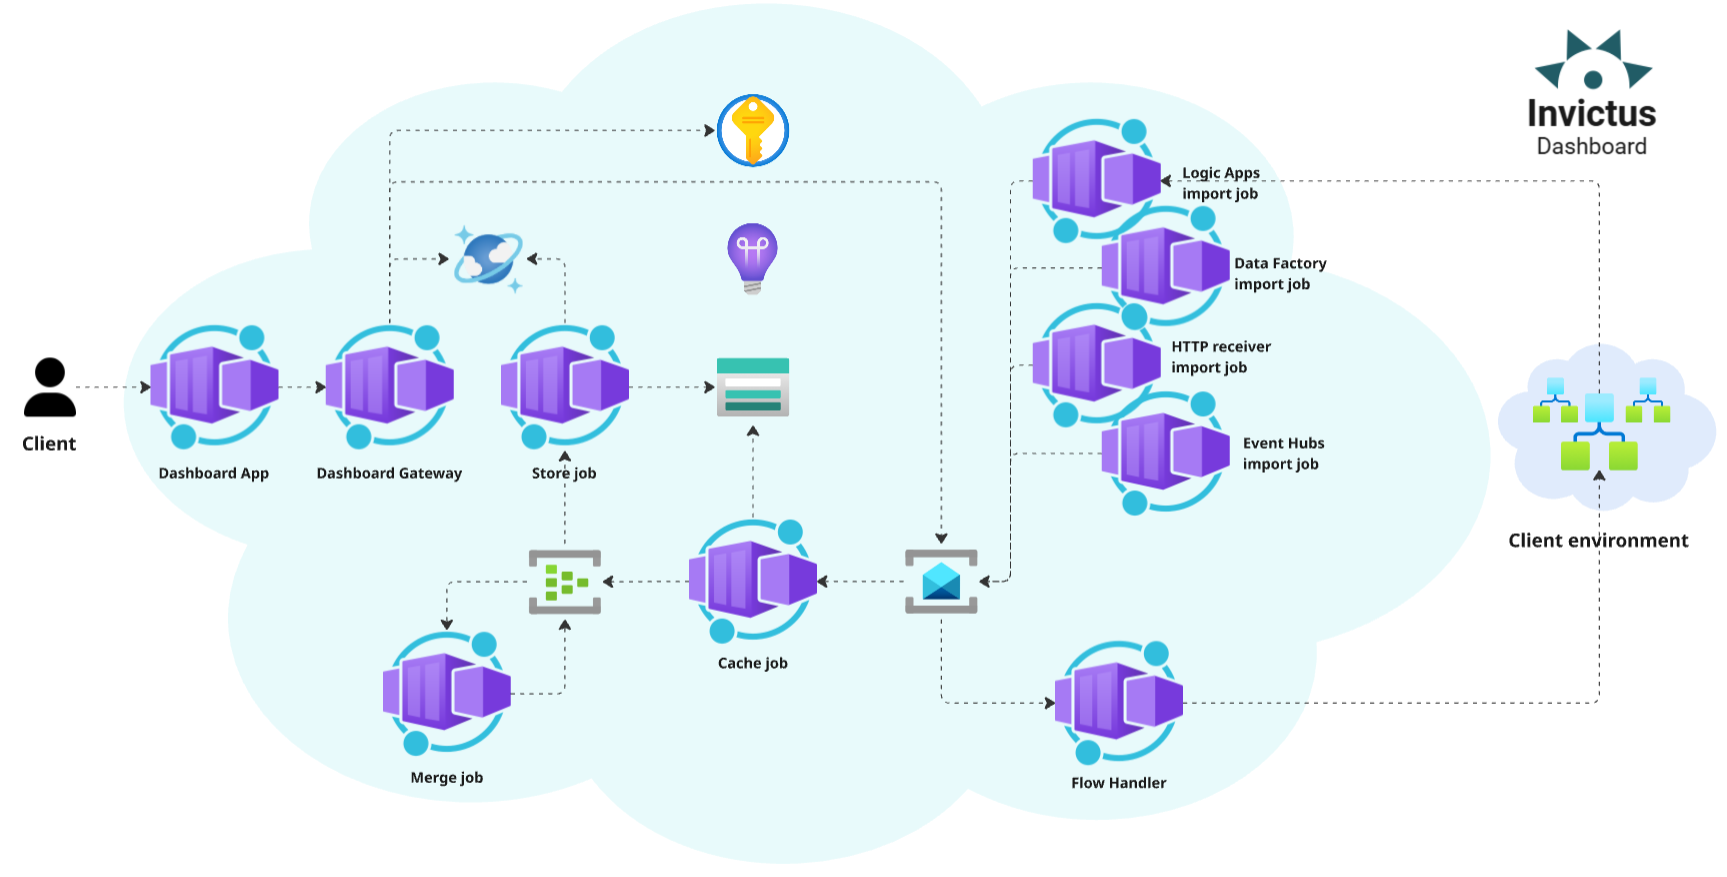
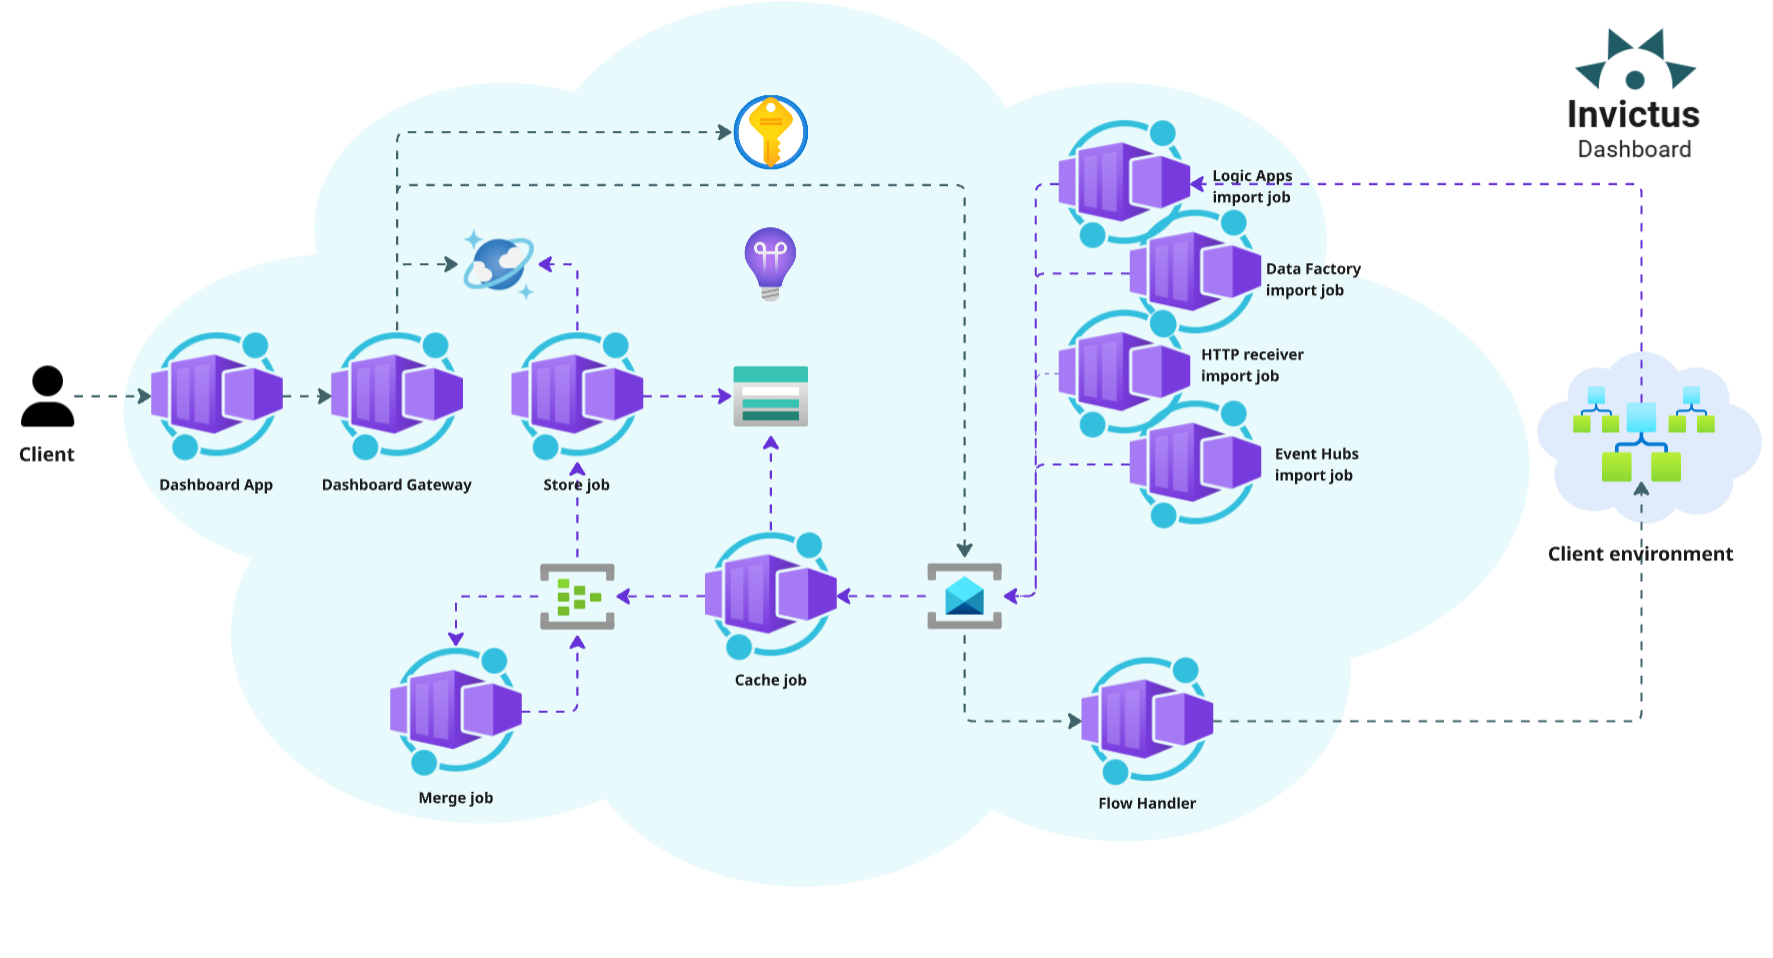
chore(intro): introduce new invictus introduction

diff --git a/src/css/custom.css b/src/css/custom.css
@@ -202,3 +202,23 @@ html[data-theme='dark'] .vnet table, html[data-theme='dark'] .vnet td {
 .toggle-checkbox:checked + .toggle-slider::before {
   transform: translateX(24px);
 }
+
+[data-theme="light"] img[src$="#dark-mode-only"],
+[data-theme="dark"] img[src$="#light-mode-only"] {
+  display: none;
+}
+
+.center {
+  display: block;
+  margin-left: auto;
+  margin-right: auto;
+  width: 30%;
+}
+
+.flow-trace-text {
+  color: #734dc4;
+}
+
+.flow-text {
+  color: #406369;
+}

diff --git a/versioned_docs/version-v6.0.0/architecture-diagram.md b/versioned_docs/version-v6.0.0/architecture-diagram.md
@@ -3,57 +3,40 @@ sidebar_label: Architecture
 sidebar_position: 2
 ---
 
-# Invictus for Azure Architecture Diagrams
+# Invictus for Azure architecture
+The following sections describe the general overview of what's 'under the hood' of an Invictus installation. Invictus by itself can be split up into two major parts: the **Dashboard** and the **Framework**.
 
-## Invictus Dashboard Architecture
+:::note[used terms]
+* *Flow:* Invictus uses 'flow' throughout to identify a logical 'message chain'. Flows are created by business users in the **Dashboard** so that all diagnostic traces can be aggregated and linked to the same incoming message. 
+* *Flow trace:* Invictus uses 'flow trace' throughout to identify a diagnostic trace that can be linked to a user-defined 'flow'. These can come directly from Azure Logic Apps diagnostic traces, or other places, like Azure Data Factory pipeline triggers. We even provide a **HTTP import job** to POST custom flow traces.
+:::
 
+<br/>
 ![Architecture diagram](/images/InvictusV2Diagram_Dashboard.png "Invictus Dashboard architecture diagram")
+<br/>
 
-### Dashboard Components
+The Invictus **Dashboard** provides a business user-friendly UI to interact with client set up integrations (usually Azure Logic Apps), instead of directly manipulating those integrations via Azure. It does this by showing integrations as 'flows', backed with diagnostic information (here called 'flow traces') loaded via an internal job-chain. The following containerized components are deployed upon installing the Dashboard, based on their purpose:
 
-- **Frontend:** Consists of the web application which is used to monitor all flows in the system.
-- **Dashboard Gateway:** Serves as the backend for the web application, handles all interactions with the database and other dependencies.
-- **Flow Handler:** Handles interactions with the Azure management api for the flow actions (Ignore, Resubmit, Resume), flow alerts and message content view features.
-- **Import Functions:** Consist of ImportJob, CacheImportJob and StoreImportJob. The ImportJob functions are used to listen on EventHub for all Azure Logic App executions, all data is then merged and finally pushed to the Database.
-- **CosmosDB:** Stores all the data necessary for the frontend to function such as users, folders, settings. Flow data and workflow events are also saved to the CosmosDB by the *DatabaseManager* function.
-- **Event Hub:** Logic App diagnostic messages are sent to event hub where they are picked up and processed by the Invictus import functions.
+* <u class="flow-text">**Flows**</u>
+  * <u>**Dashboard App:**</u> the business user interacts with the **Dashboard** via a deployed web application which is used to monitor all 'flows'.
+  * <u>**Dashboard Gateway:**</u> serves as the backend API for the **Dashboard App**. It shows the stored 'flows' (*Cosmos DB for MongoDB*) and triggers 'flow' operations (*Service Bus*).  
+  * <u>**Flow Handler:**</u> based on the required 'flow' action triggered by the business user (*Ignore*, *Resubmit*, *Resume*) in the **Dashboard App**, it interacts with the deployed Azure Logic Apps on the client environment (See [import flow traces via Logic App workflows](./dashboard/flows/04_import-flow-traces/import-flows-via-la.md) for more info).
+* <u class="flow-trace-text">**Flow traces**</u>
+  * <u>**[type] import job:**</u> the Invictus installation provides several 'import jobs' which are interaction endpoints to push 'flow traces' into the **Dashboard**. These can come from various sources (Logic Apps, Data Factory, Event Hubs...). Once received, they push a canonical message into the system (*Service Bus*).
+  * <u>**Cache job:**</u> listens for new canonical messages (*Service Bus*) and caches them as batches (*Blob Storage*).
+  * <u>**Merge job:**</u> listens for new batches (*Event Hubs*) and already upserts the system (*Cosmos DB for MongoDB*) with 'message content view' information (input/output of Azure Logic Apps, see [import flow traces via Logic App workflows](./dashboard/flows/04_import-flow-traces/import-flows-via-la.md) for more info).
+  * <u>**Store job:**</u> listens for new batches (*Event Hubs*), loads referenced canonical message (*Blob Storage*), and combines that information to store 'flow trace' models (*Cosmos DB for MongoDB*) which gets available via the **Dashboard App** to the business user.
 
-## Invictus Framework Architecture
-
+<br/>
 ![Architecture diagram](/images/InvictusV2Diagram_Framework.png "Invictus Framework architecture diagram")
+<br/>
 
-### Framework Components
+Within the client integrations (here always Azure Logic Apps), several common integration patterns are not built into Azure Logic App workflows by default. The Invictus **Framework** provides several of these patterns as HTTP available endpoints that can be interacted with within your workflows.
 
-Various useful Functions which can be used within your Azure Logic App integration processes. For more information see the [Invictus Framework documentation](./framework/index.md).
-
-- **PubSub Function**
-- **TimeSequencer Function**
-- **Sequence Controller Function**
-- **XML/JSON Convertor Function**
-- **XSD Validator Function**
-- **Regex Translator Function**
-- **TranscoV2 Function**
-
-## Shared Components
-
-### Azure Service Bus
-
-- Used by PubSub Function to push messages to subscriptions.
-- Used by ImportJob function to push data to CacheImportJob function after splitting data by ClientTrackingId.
-- Used by the Dashboard to queue requests for Ignore/Resume/Resubmit which are then picked up by the Flow Handler.
-
-### Azure Storage
-
-- Used by PubSub Function to create Blobs for ClaimCheck pattern
-- Used by CacheImportJob to save all events received from EventHub as a temporary cache
-- Used by Transco V2 function to store configs, XSLT files and assembly files.
-- Used by XML/JSON Convertor function to store configs.
-- Used by XSD Validator function to store configs.
- 
-### Azure Application Insights
-
-- All Functions point to a Application Insights resource which contains all traces and logs that were created.
- 
-### Azure Key Vault
-
-- Used to store secrets such as API keys, connection strings, etc.
+* [**PubSub v2:**](./framework/pubsubV2.md) uses Azure Service Bus as a message broker to publish/subscribe on messages across Azure Logic Apps. 
+* [**TimeSequencer:**](./framework/timesequencer.md) control the order in which Azure Logic App workflows can run based on a custom timestamp.
+* [**Sequence Controller:**](./framework/sequencecontroller.md) control the order in which Azure Logic App workflow can run based on a custom sequence order.
+* [**XML/JSON Convertor:**](./framework/xmljsonconverter.md) convert XML-JSON based on a custom XSLT transformation.
+* [**XSD Validator:**](./framework/xsd-validator.md) validate XML based on a custom XSD schema.
+* [**Regex Translator**](./framework/regextranslation.md) translate user content based on custom regular expression patterns.
+* [**Transco v2:**](./framework/transcoV2.mdx) promote properties in an user content based on database records.

diff --git a/versioned_docs/version-v6.0.0/index.md b/versioned_docs/version-v6.0.0/index.md
@@ -1,19 +1,29 @@
 ---
-title: Invictus
+title: ""
 sidebar_label: Welcome
 sidebar_position: 1
 ---
 
-For smart business monitoring and better control of your integrations.
+<img src="/img/invictus.dark.png#dark-mode-only" class="center" alt="Invictus logo" />
+<img src="/img/invictus.light.png#light-mode-only" class="center" alt="Invictus logo" />
 
-### Architecture
-The full description of the architecture (including diagrams and service names) can be found [here](architecture-diagram.md "here").
+___
+
+## What is Invictus for Azure?
+**Invictus for Azure** is a smart business monitoring system designed by [Codit](https://codit.eu) to better control your integrations. Usually, these integrations are Azure Logic App workflows, but can be fully customizable to your needs.
+
+An on-premise deployed **Dashboard** takes away the burden of in-depth Azure knowledge and let's business users focus on the status of the integrations. Several **Framework** components help with common integration patterns in your Azure Logic App workflows, and so boosting your workflow capabilities!
+
+## Why should we use Invictus for Azure?
+Without **Invictus for Azure**, business users are left with the Azure portal to see the status of set up integrations. This requires users to have in-depth Azure knowledge, plus authorization on more than is needed for their role.
+
+**Invictus for Azure** adds a business-user-friendly layer between Azure technology and business operations. Increasing productivity, security and quality by building on top of production-proven software.
+
+## How to use Invictus for Azure?
+To get a general overview of what an **Invictus for Azure** installation entails, see the [architecture overview](./architecture-diagram.md). This will provide the necessary context and relationships.
 
 ### Related documentation
-
-The following documentation sites are related to the Invictus for Azure integration methodology.
-Some of these documentations are only accessible to authorized customers.
-
-- Invictus methodology (private)
-- Invictus jumpstart templates (private)
-- [Invictus for BizTalk](http://docs.invictus-integration.com/invictus-for-biztalk)
+The following documentation sites are related to the **Invictus for Azure** integration methodology. (Some of these documentations are only accessible to authorized customers.)
+* *Invictus methodology (private)*
+* *Invictus jumpstart templates (private)*
+* [Invictus for BizTalk](http://docs.invictus-integration.com/invictus-for-biztalk)
